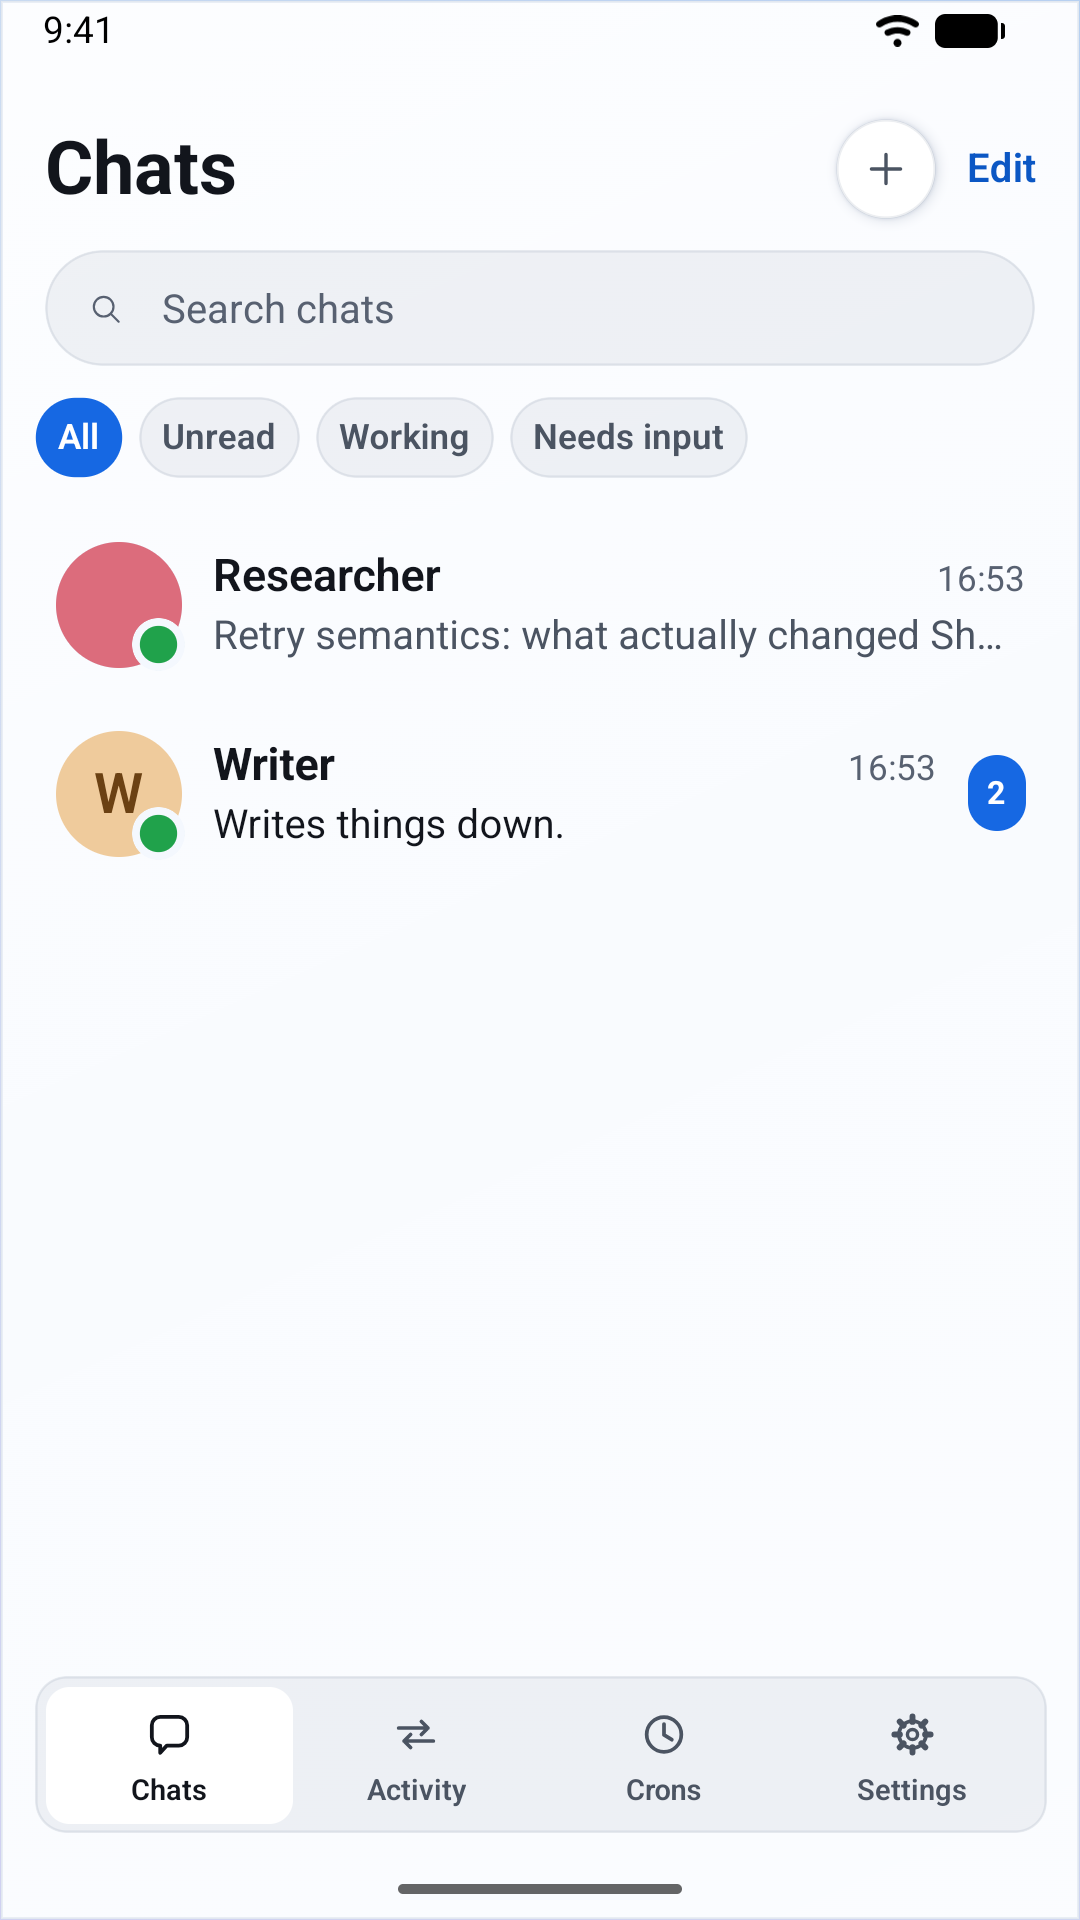
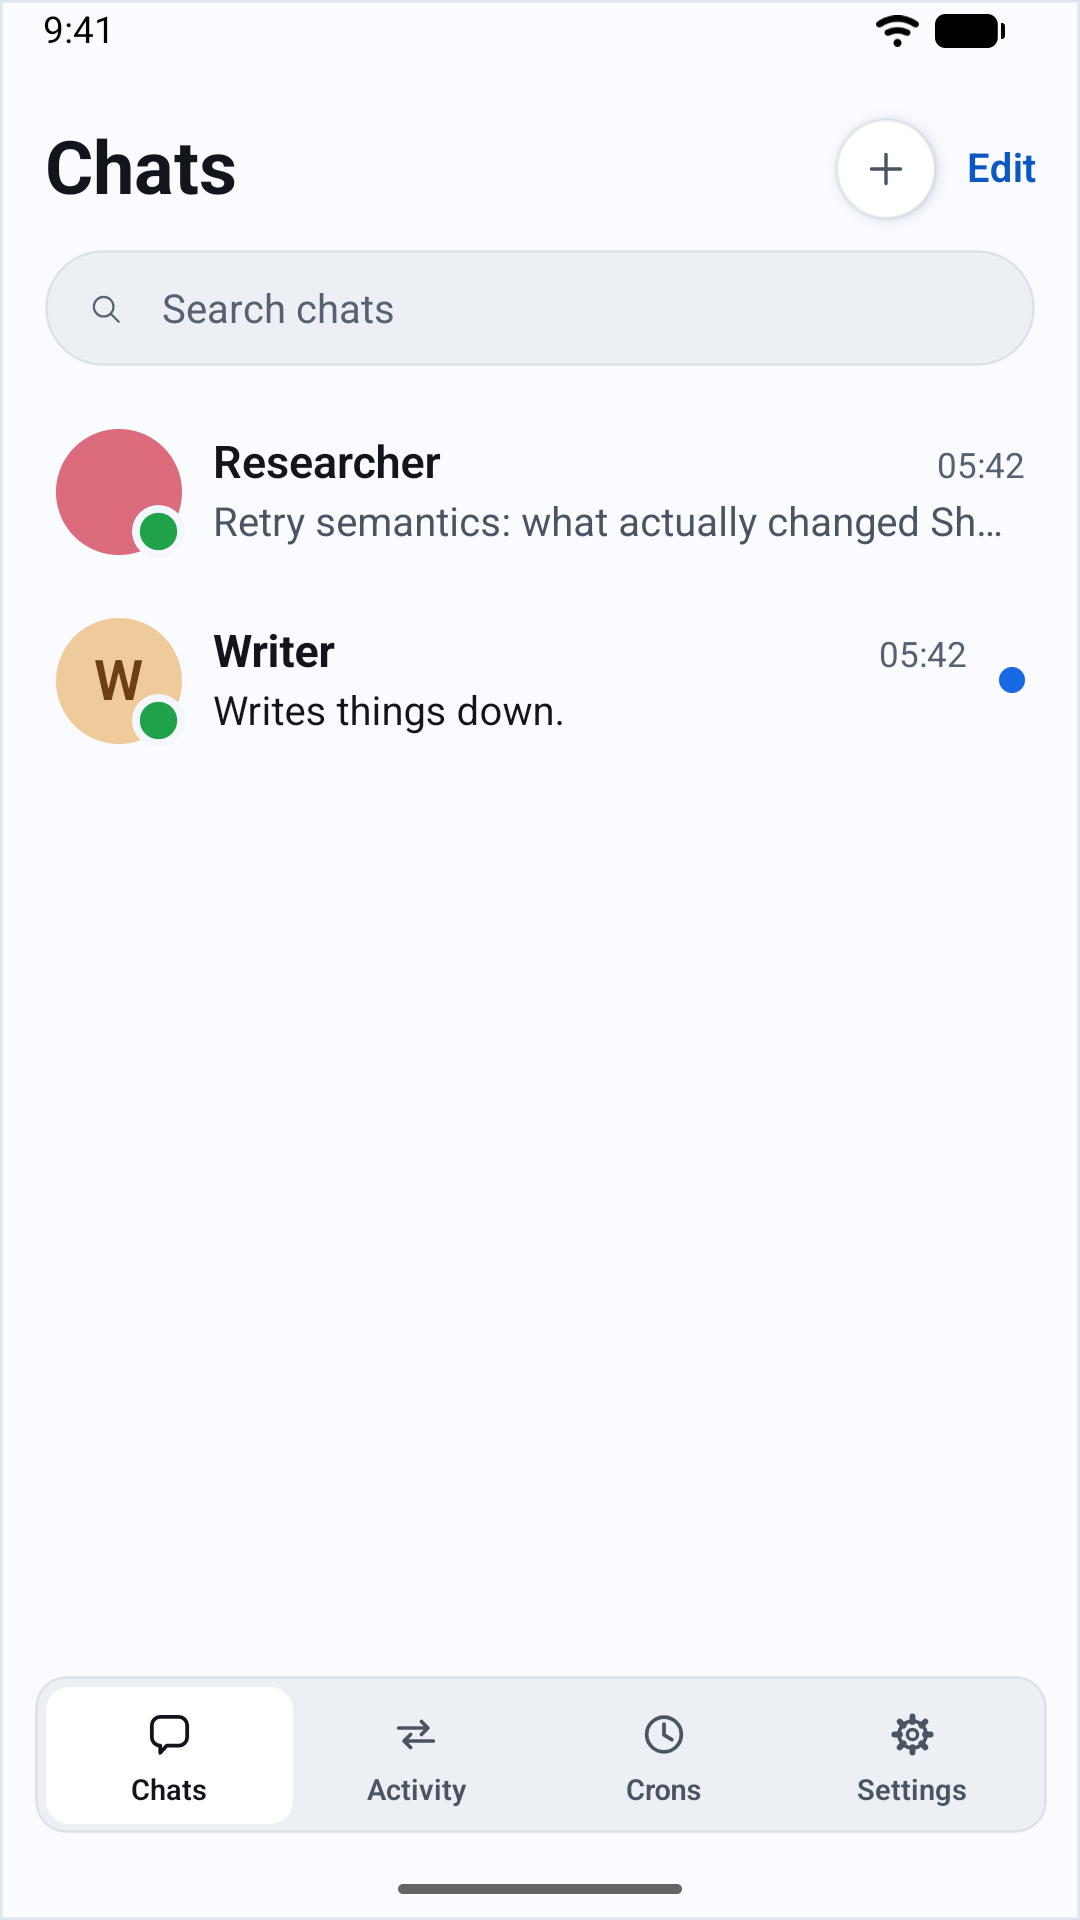
docs(store): retake the Play screenshots on the floating header
The listing set predates `feat(chat): float the header over the transcript
and make the glass a control` and the removal of the chat list's filter
chips, so every image showed a bar the app no longer draws and a row of
chips it no longer has.

Retaken on the same three AVDs, at the same three sizes and under the same
names. Three of them are not one launch and the README now says so: the
approval sheet opens by itself once a request is raised — `targetSheet()`
gives a blocked agent priority — and Back or Escape dismisses it, which is
what made it look unreachable from a script; the dark shot answers that
request; and the Settings shot still needs the wizard by hand, because the
dev seed stores no gateway version.

Also recorded: `adb reverse` puts Metro and the gateway on the emulator's
own loopback so one command line serves a phone and a tablet, the app's
transcript cache survives a restart of the fake gateway so `pm clear` is
the reset, the 7" panel needs auto-rotate OFF before `user_rotation` is
obeyed, and a notification key contains a pipe so `adb shell` needs the
whole command quoted.

The re-encode drops `sBIT`/`sRGB` as before, through `pngjs` rather than
Pillow, which is already in the workspace.

diff --git a/design/store/README.md b/design/store/README.md
@@ -19,23 +19,29 @@ is **rejected**. The phone captures below are 1080×1920 because the emulator's
 display was set to 9:16 before the app was launched, not because anything was
 cropped afterwards.
 
-| File                          | Size      | Ratio | What it shows                                                                                                                     |
-| ----------------------------- | --------- | ----- | --------------------------------------------------------------------------------------------------------------------------------- |
-| `phone-01-chats.png`          | 1080×1920 | 16:9  | The chats list: both bots with green presence beads, Writer carrying a numbered unread badge, the filter chips and the tab strip. |
-| `phone-02-conversation.png`   | 1080×1920 | 16:9  | One conversation: an outgoing DM line to `@writer`, a cron delivery card, and a long report folded behind **Show more**.          |
-| `phone-03-approval.png`       | 1080×1920 | 16:9  | The permission sheet a bot's `run_command` raises, with the command quoted and the four answers.                                  |
-| `phone-04-crons.png`          | 1080×1920 | 16:9  | The crons list, Active over Paused, each row with its schedule, its delivery target, its profile and its next run.                |
-| `phone-05-dark.png`           | 1080×1920 | 16:9  | The same chat in the dark theme, with a tool card, a token-and-duration footer and the chip an answered approval leaves behind.   |
-| `tablet10-01-wide.png`        | 2560×1600 | 16:10 | The two-panel layout: sidebar with the chats list and the tab strip, conversation beside it.                                      |
-| `tablet10-02-settings.png`    | 2560×1600 | 16:10 | The Settings overlay over that layout — gateway address, provider, version and status, then the account and chat sections.        |
-| `tablet10-03-dark.png`        | 2560×1600 | 16:10 | The same two-panel layout in the dark theme.                                                                                      |
-| `tablet7-01-wide.png`         | 1920×1200 | 16:10 | The two-panel layout at 960 dp, which is where a 7" tablet lands in landscape.                                                    |
-| `tablet7-02-conversation.png` | 1920×1200 | 16:10 | The sidebar collapsed to its icon rail, so the conversation has the whole width.                                                  |
+| File                          | Size      | Ratio | What it shows                                                                                                                  |
+| ----------------------------- | --------- | ----- | ------------------------------------------------------------------------------------------------------------------------------ |
+| `phone-01-chats.png`          | 1080×1920 | 16:9  | The chats list: both bots with green presence beads, Writer carrying an unread dot, the search field and the tab strip.        |
+| `phone-02-conversation.png`   | 1080×1920 | 16:9  | One conversation: the opening exchange, a tool card, and the roll-up of this bot's traffic to `@researcher`.                   |
+| `phone-03-approval.png`       | 1080×1920 | 16:9  | The permission sheet a bot's `run_command` raises, over the chat that raised it, with the command quoted and the four answers. |
+| `phone-04-crons.png`          | 1080×1920 | 16:9  | The crons list, Active over Paused, each row with its schedule, its delivery target, its profile and its next run.             |
+| `phone-05-dark.png`           | 1080×1920 | 16:9  | The same chat in the dark theme: a token-and-duration footer, a tool card, and the chip an answered approval leaves behind.    |
+| `tablet10-01-wide.png`        | 2560×1600 | 16:10 | The two-panel layout: sidebar with the chats list and the tab strip, conversation beside it.                                   |
+| `tablet10-02-settings.png`    | 2560×1600 | 16:10 | The Settings overlay over that layout — gateway address, provider, version and status, then the account and chat sections.     |
+| `tablet10-03-dark.png`        | 2560×1600 | 16:10 | The same two-panel layout in the dark theme.                                                                                   |
+| `tablet7-01-wide.png`         | 1920×1200 | 16:10 | The two-panel layout at 960 dp, which is where a 7" tablet lands in landscape.                                                 |
+| `tablet7-02-conversation.png` | 1920×1200 | 16:10 | The sidebar collapsed to its icon rail, so the conversation has the whole width.                                               |
 
-Light theme and the Blue wallpaper throughout, except the two named `dark`.
+Light theme and the Blue theme throughout, except the two named `dark`.
 
-## Two things in these images that look like defects and are not
+## Three things in these images that look like defects and are not
 
+- **The header floats over the transcript.** Since
+  `feat(chat): float the header over the transcript and make the glass a control`
+  the bot's name is a glass pill over the conversation rather than a bar above it,
+  so a row can be half under it. That is the design, and it is why several of
+  these are composed around where the pill lands rather than simply scrolled to
+  the bottom. The set the pill occluded least is the one that shipped.
 - **Researcher's avatar is a plain rose disc with no letter.** The fake gateway
   answers `has_avatar` for every profile but `writer`, and the asset it serves is
   a 1×1 half-opaque red PNG — deliberately flat, so a run against it shows at a
@@ -43,6 +49,9 @@ Light theme and the Blue wallpaper throughout, except the two named `dark`.
   falling back to a generated initial. `Avatar` draws the image **or** the
   initial, never both, so Researcher gets the disc and Writer gets its `W`. It is
   the fixture, not a broken image.
+- **`Weekly digest` is red in `phone-04-crons.png`.** That job's fixture carries
+  `last_status: "error"`, so the row shows the failure its last run reported. A
+  cron list that cannot say a job broke would be the defect; this is the feature.
 - **The times inside the app are not 9:41.** The status bar is pinned by
   SystemUI's demo mode; the transcript's timestamps come from the fake gateway,
   which builds its fixtures relative to the moment it started.
@@ -63,8 +72,11 @@ image, so they were written by hand: a `~/.android/avd/<name>.ini` pointing at a
 | `Hermie_Tablet_7`  | 1200 × 1920               | 320              | 960 × 600       |
 
 Both tablet entries set `hw.initialOrientation=landscape`, and the 7" one needs
-`settings put system user_rotation 1` as well because its panel is portrait.
-`REGULAR_LAYOUT_MIN_WIDTH` is 700, so both tablets get the two-panel shell.
+`settings put system accelerometer_rotation 0` **and then**
+`settings put system user_rotation 1`, because its panel is portrait and the
+`user_rotation` alone is ignored while auto-rotate is on. Put auto-rotate back
+afterwards. `REGULAR_LAYOUT_MIN_WIDTH` is 700, so both tablets get the two-panel
+shell.
 
 For the phone, set the display to 9:16 before launching and put it back
 afterwards — it is a shared AVD:
@@ -87,12 +99,14 @@ cd android && ./gradlew assembleDebug
 adb install -r app/build/outputs/apk/debug/app-debug.apk
 ```
 
-Metro and the gateway both run on the host; the emulator reaches it at
-`10.0.2.2`:
+Metro and the gateway both run on the host. `adb reverse` puts both on the
+emulator's own loopback, which is what lets the same command line serve a phone
+and a tablet without an address that differs per device:
 
 ```sh
 npm run start --workspace @hermie/app
-npm run fake-gateway -- --auth token --token demo
+npm run fake-gateway -- --auth token --token demo --host 0.0.0.0
+adb reverse tcp:9119 tcp:9119 && adb reverse tcp:8081 tcp:8081
 ```
 
 ### One launch, one screenshot
@@ -106,8 +120,8 @@ past `expo-dev-client`'s launcher straight to Metro's bundle:
 adb shell am force-stop dev.hermie.app
 adb shell am start -a android.intent.action.VIEW \
   -n dev.hermie.app/.MainActivity \
-  -d 'exp+hermie://expo-development-client/?url=http%3A%2F%2F10.0.2.2%3A8081' \
-  --es hermieGateway http://10.0.2.2:9119 --es hermieToken demo \
+  -d 'exp+hermie://expo-development-client/?url=http%3A%2F%2Flocalhost%3A8081' \
+  --es hermieGateway http://localhost:9119 --es hermieToken demo \
   --es hermieTheme light --es hermiePreset blue \
   --es hermieOpen chat:researcher
 ```
@@ -117,24 +131,49 @@ arrives as Intent extras instead of a process argument vector. On the very first
 launch after an install, `expo-dev-client` puts its own onboarding sheet over the
 app — dismiss it once per device.
 
-**`--hermieGateway` cannot be used for `tablet10-02-settings.png`.** The seed does
-not probe, so it stores no gateway version and Settings then shows "Unknown". That
-one image was made by running the real four-step wizard by hand — Settings →
-Change gateway → Forget it, then the address `http://10.0.2.2:9119`, the token
-`demo`, the connection test, Done — and launching afterwards **without**
-`--hermieGateway`, since the seed rewrites the stored configuration on every
-launch.
+**Restarting the fake gateway is not enough to get the fixtures back.** The app
+keeps its own transcript cache, so a chat it has already read comes back from
+disk with whatever was sent to it last time still in it. Three of these images are
+a conversation somebody typed into, so the reset before each of them is:
+
+```sh
+pkill -f 'packages/fake-gateway/src/cli.ts'
+npm run fake-gateway -- --auth token --token demo --host 0.0.0.0 &
+adb shell pm clear dev.hermie.app        # and dismiss the dev-client sheet again
+```
+
+Three images are not one launch:
+
+- **`phone-02-conversation.png`** is `chat:writer` straight off the fixtures. It
+  is the one chat whose whole transcript fits under the floating header.
+- **`phone-03-approval.png`** and **`phone-05-dark.png`** need a live request, so
+  the composer was tapped, `Please approve the source scan rollout` typed with
+  `adb shell input text`, and the send button tapped. The sheet then opens **by
+  itself** — `targetSheet()` gives a blocked agent priority over anything the
+  reader opened — and that is what `phone-03` photographs. Do NOT press Back or
+  Escape while waiting: both dismiss it, leaving the inline "Answer" card. For
+  `phone-05`, answer with **Allow once** and dismiss the keyboard with
+  `input keyevent 111` before the capture.
+- **`tablet10-02-settings.png`** cannot use `--hermieGateway`. The seed does not
+  probe, so it stores no gateway version and Settings then shows "Unknown". That
+  image was made by running the real four-step wizard by hand — `pm clear`, then
+  the address `http://10.0.2.2:9119`, the token `demo`, the connection test,
+  Start chatting — and launching afterwards **without** `--hermieGateway`, since
+  the seed rewrites the stored configuration on every launch. The two other
+  10" images were retaken the same way so the whole tablet set names one address.
 
 ### A status bar worth publishing
 
 SystemUI's demo mode pins the clock, the battery and the radios. It does **not**
 hide a notification icon, and a fresh AVD posts at least one — a Safety Center
 "set a screen lock" shield, or a Play Store update. Snooze whatever is there
-first:
+first, and mind the quoting: a notification key contains `|`, so the whole
+`adb shell` command has to be one quoted string or the device's shell will try to
+run the parts as a pipeline.
 
 ```sh
 adb shell cmd notification list
-adb shell cmd notification snooze --for 86400000 '<key>'
+adb shell "cmd notification snooze --for 86400000 '<key>'"
 
 adb shell settings put global sysui_demo_allowed 1
 adb shell am broadcast -a com.android.systemui.demo -e command enter
@@ -165,14 +204,18 @@ adb exec-out screencap -p > shot.png
 "what the device felt like writing" is not a thing to publish unread, so every
 file here was decoded and re-encoded from its pixels with no ancillary chunks at
 all — `IHDR`, `IDAT`, `IEND` and nothing else, which is also how the absence of
-EXIF and XMP is demonstrated rather than assumed:
+EXIF and XMP is demonstrated rather than assumed. `pngjs` is already in the
+workspace, so this needs no extra tool:
 
-```python
-from PIL import Image
-from PIL.PngImagePlugin import PngInfo
+```js
+import { readFileSync, writeFileSync } from 'node:fs'
+import { PNG } from 'pngjs'
 
-with Image.open(src) as im:
-    im.convert("RGB").save(dst, format="PNG", optimize=True, pnginfo=PngInfo())
+const source = PNG.sync.read(readFileSync(src))
+const out = new PNG({ width: source.width, height: source.height, colorType: 2, inputHasAlpha: true })
+
+source.data.copy(out.data)
+writeFileSync(dst, PNG.sync.write(out, { colorType: 2, inputHasAlpha: true, deflateLevel: 9 }))
 ```
 
 To check a file you did not make:
